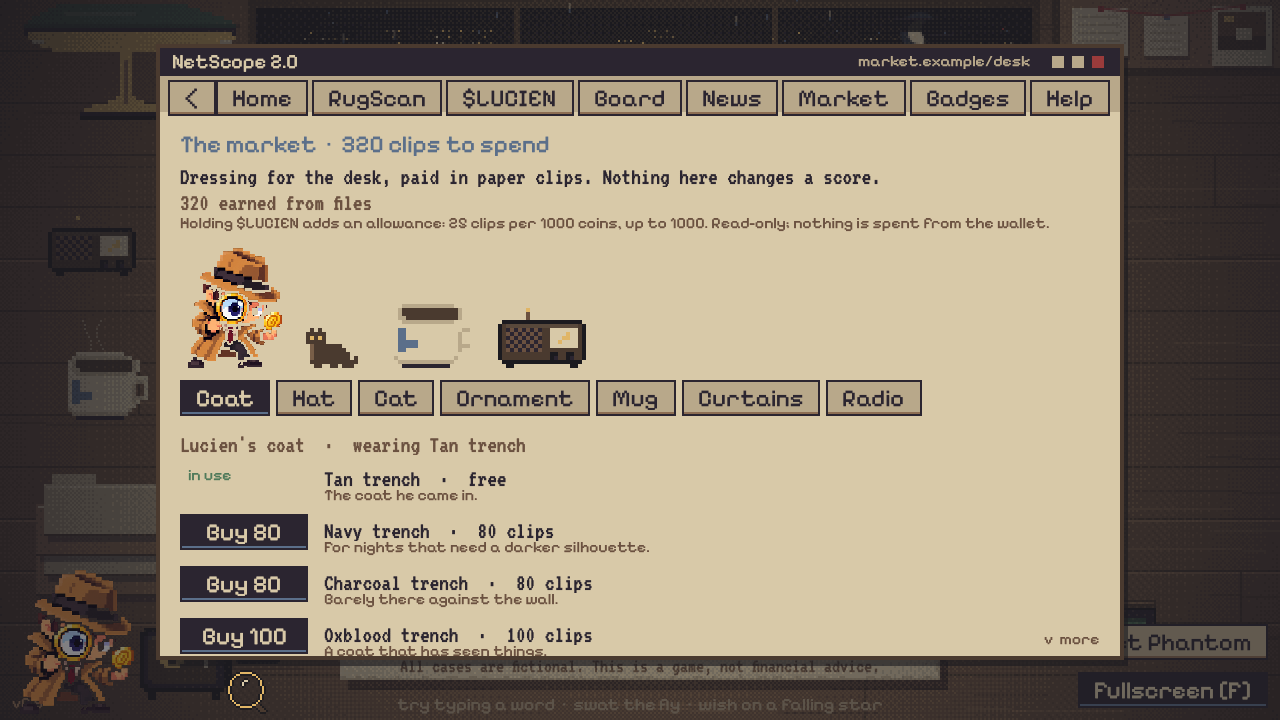
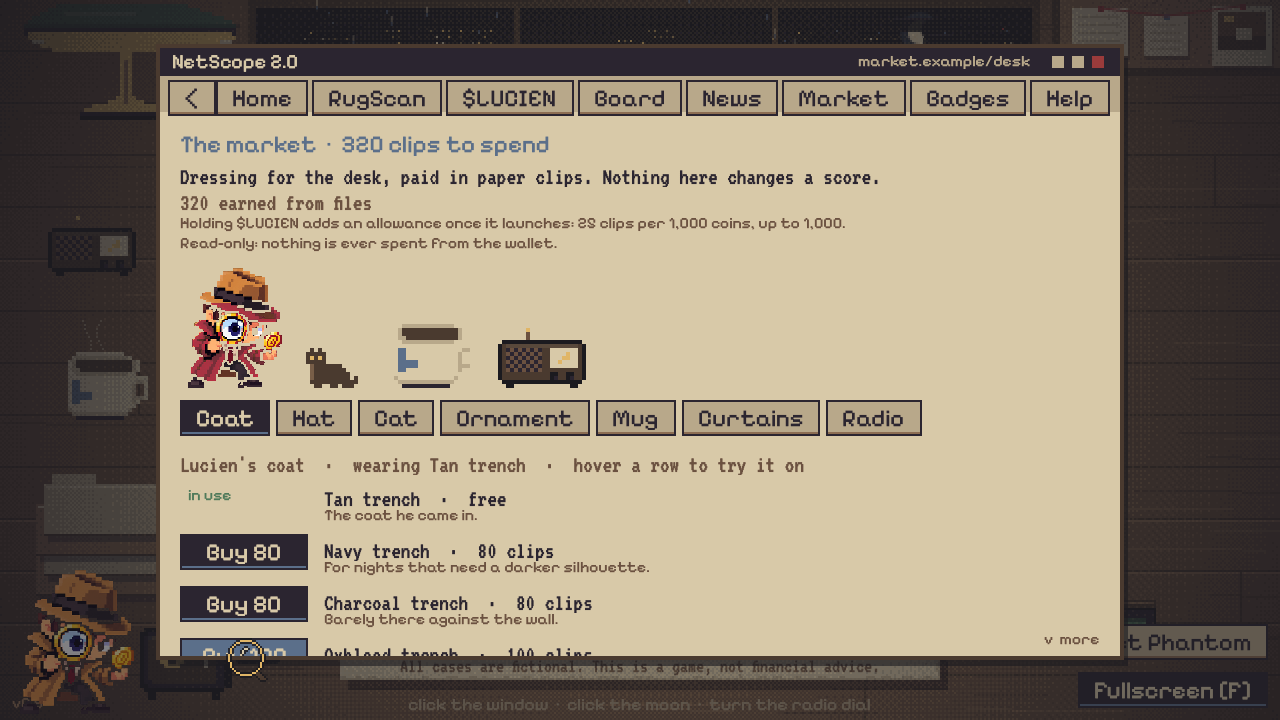
Market page: allowance note on two lines; still regenerated with the try-on

diff --git a/src/ui/browser/pages.ts b/src/ui/browser/pages.ts
@@ -826,10 +826,12 @@ export const PAGES: Record<PageId, (ctx: PageCtx) => void> = {
       `${earnedClips()} earned from files${holder ? `  ·  ${holder} holder allowance` : ''}${spent ? `  ·  ${spent} spent` : ''}`,
       { color: 'woodMid' },
     );
-    if (!holder)
+    if (!holder) {
       ctx.small(
-        `Holding ${TOKEN.symbol} adds an allowance${TOKEN.mint ? '' : ' once it launches'}: ${Math.round(CLIPS.perToken * TOKEN.holderMin)} clips per ${TOKEN.holderMin.toLocaleString()} coins, up to ${CLIPS.holderCap.toLocaleString()}. Read-only; nothing is spent from the wallet.`,
+        `Holding ${TOKEN.symbol} adds an allowance${TOKEN.mint ? '' : ' once it launches'}: ${Math.round(CLIPS.perToken * TOKEN.holderMin)} clips per ${TOKEN.holderMin.toLocaleString()} coins, up to ${CLIPS.holderCap.toLocaleString()}.`,
       );
+      ctx.small('Read-only: nothing is ever spent from the wallet.');
+    }
     ctx.gap(4);
 
     // Your desk as it stands: the props at their real size, Lucien to scale. Hovering a
